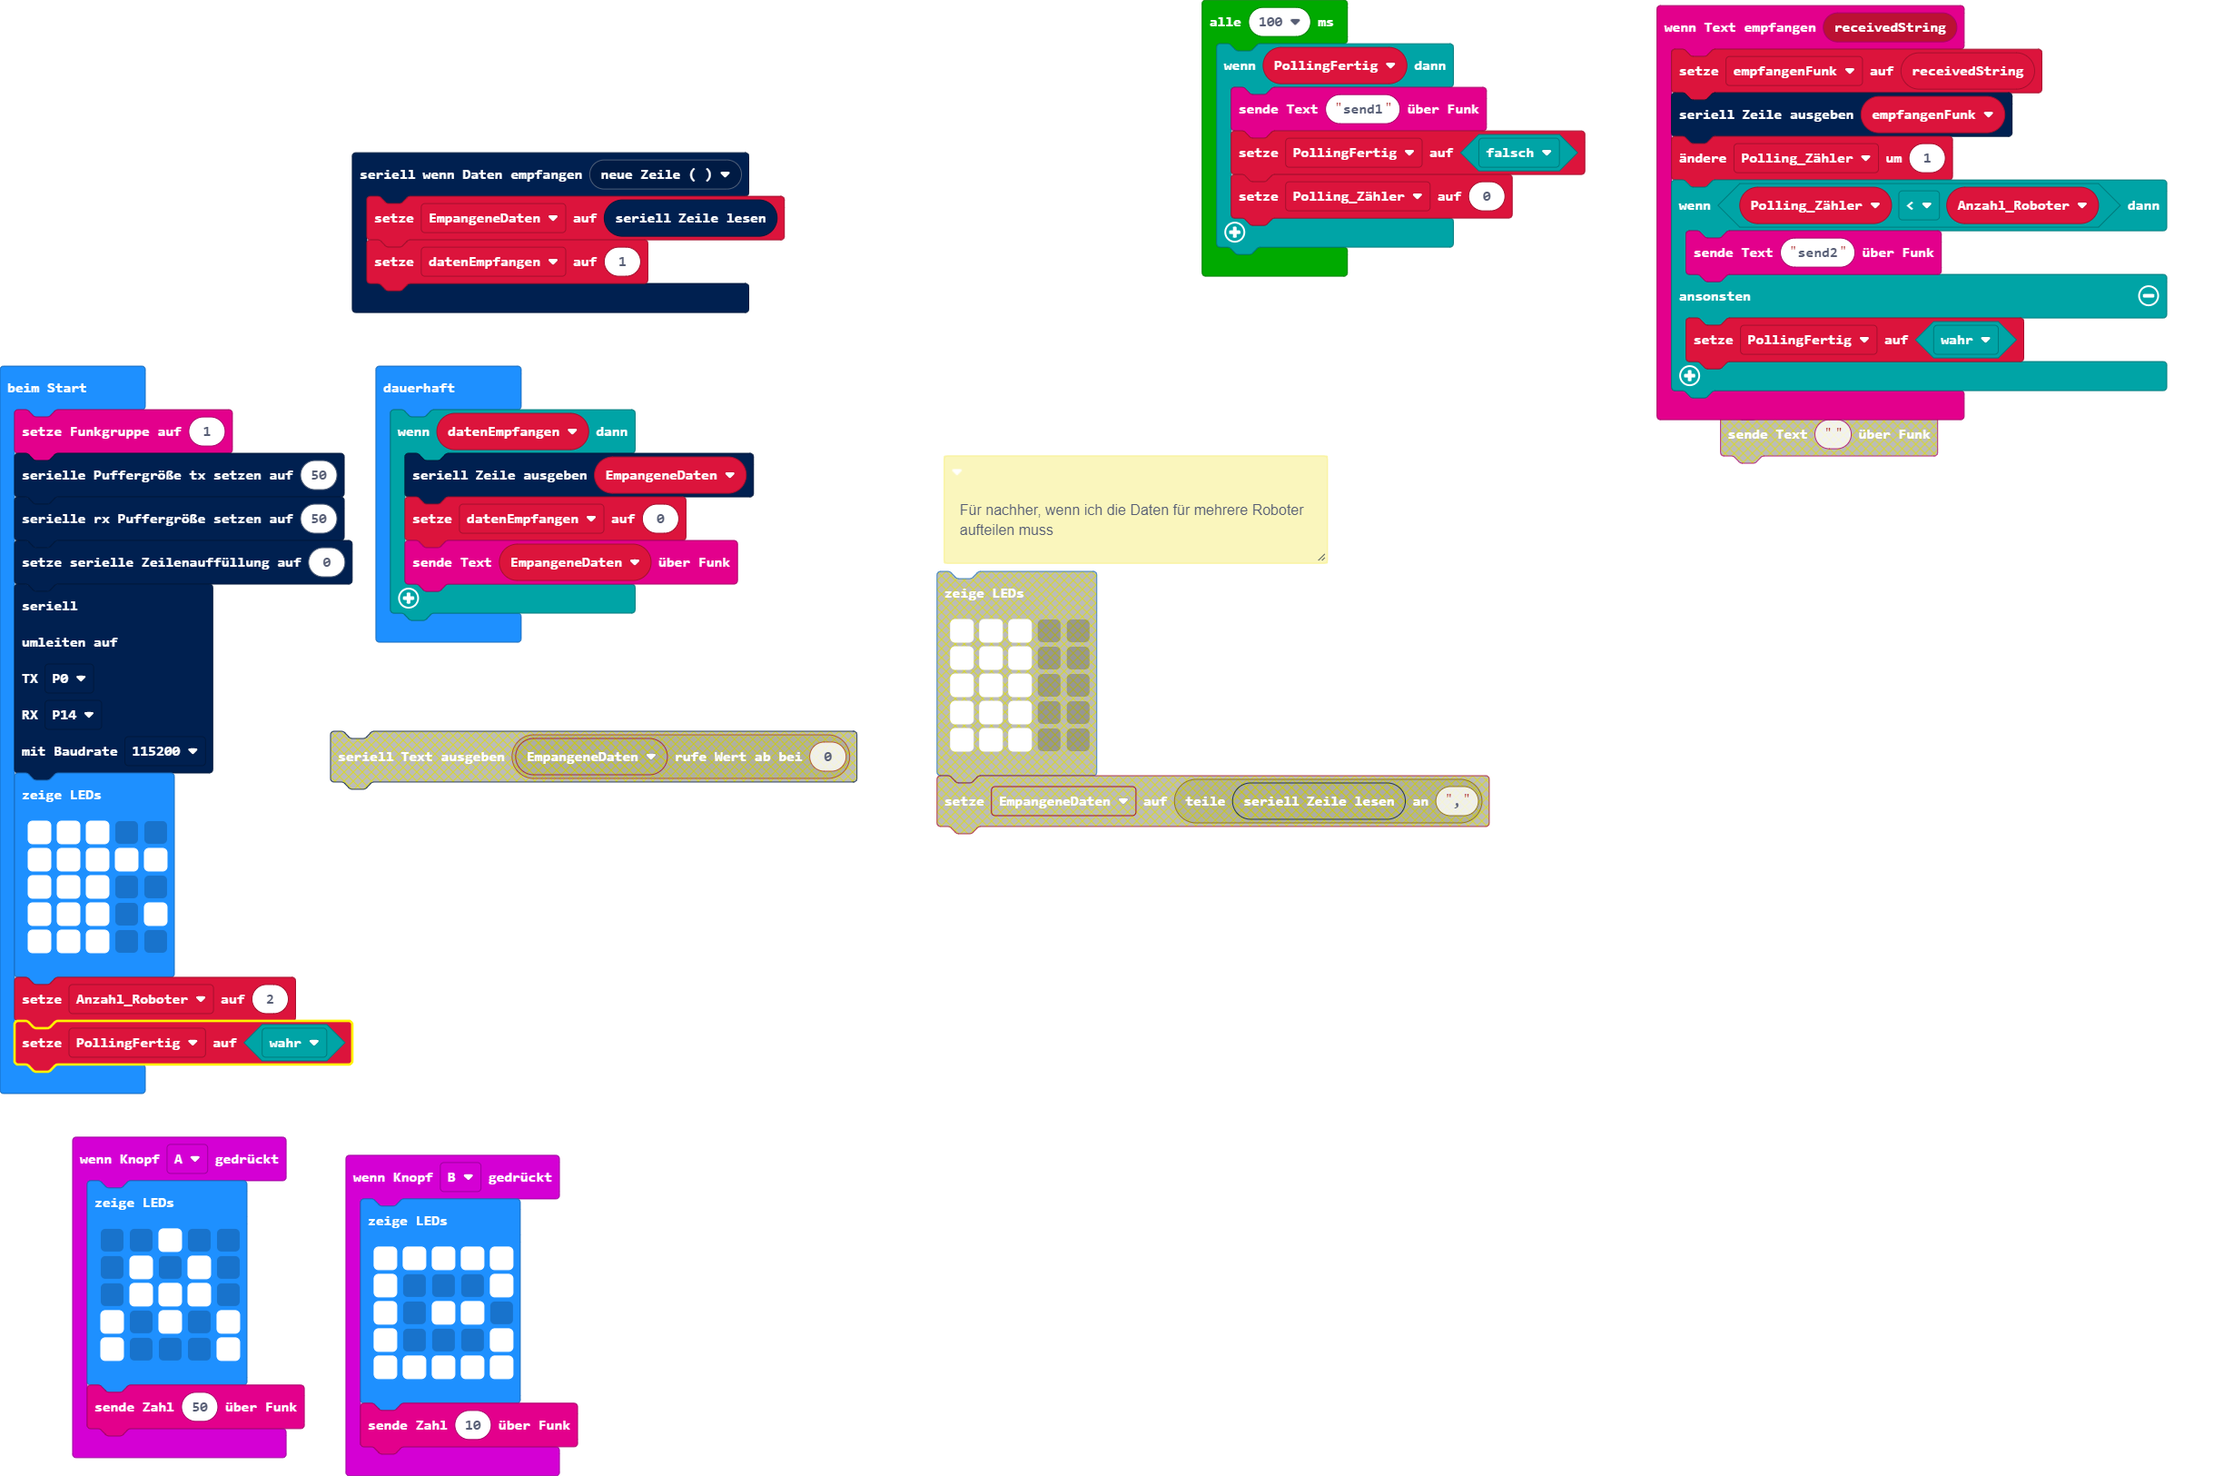
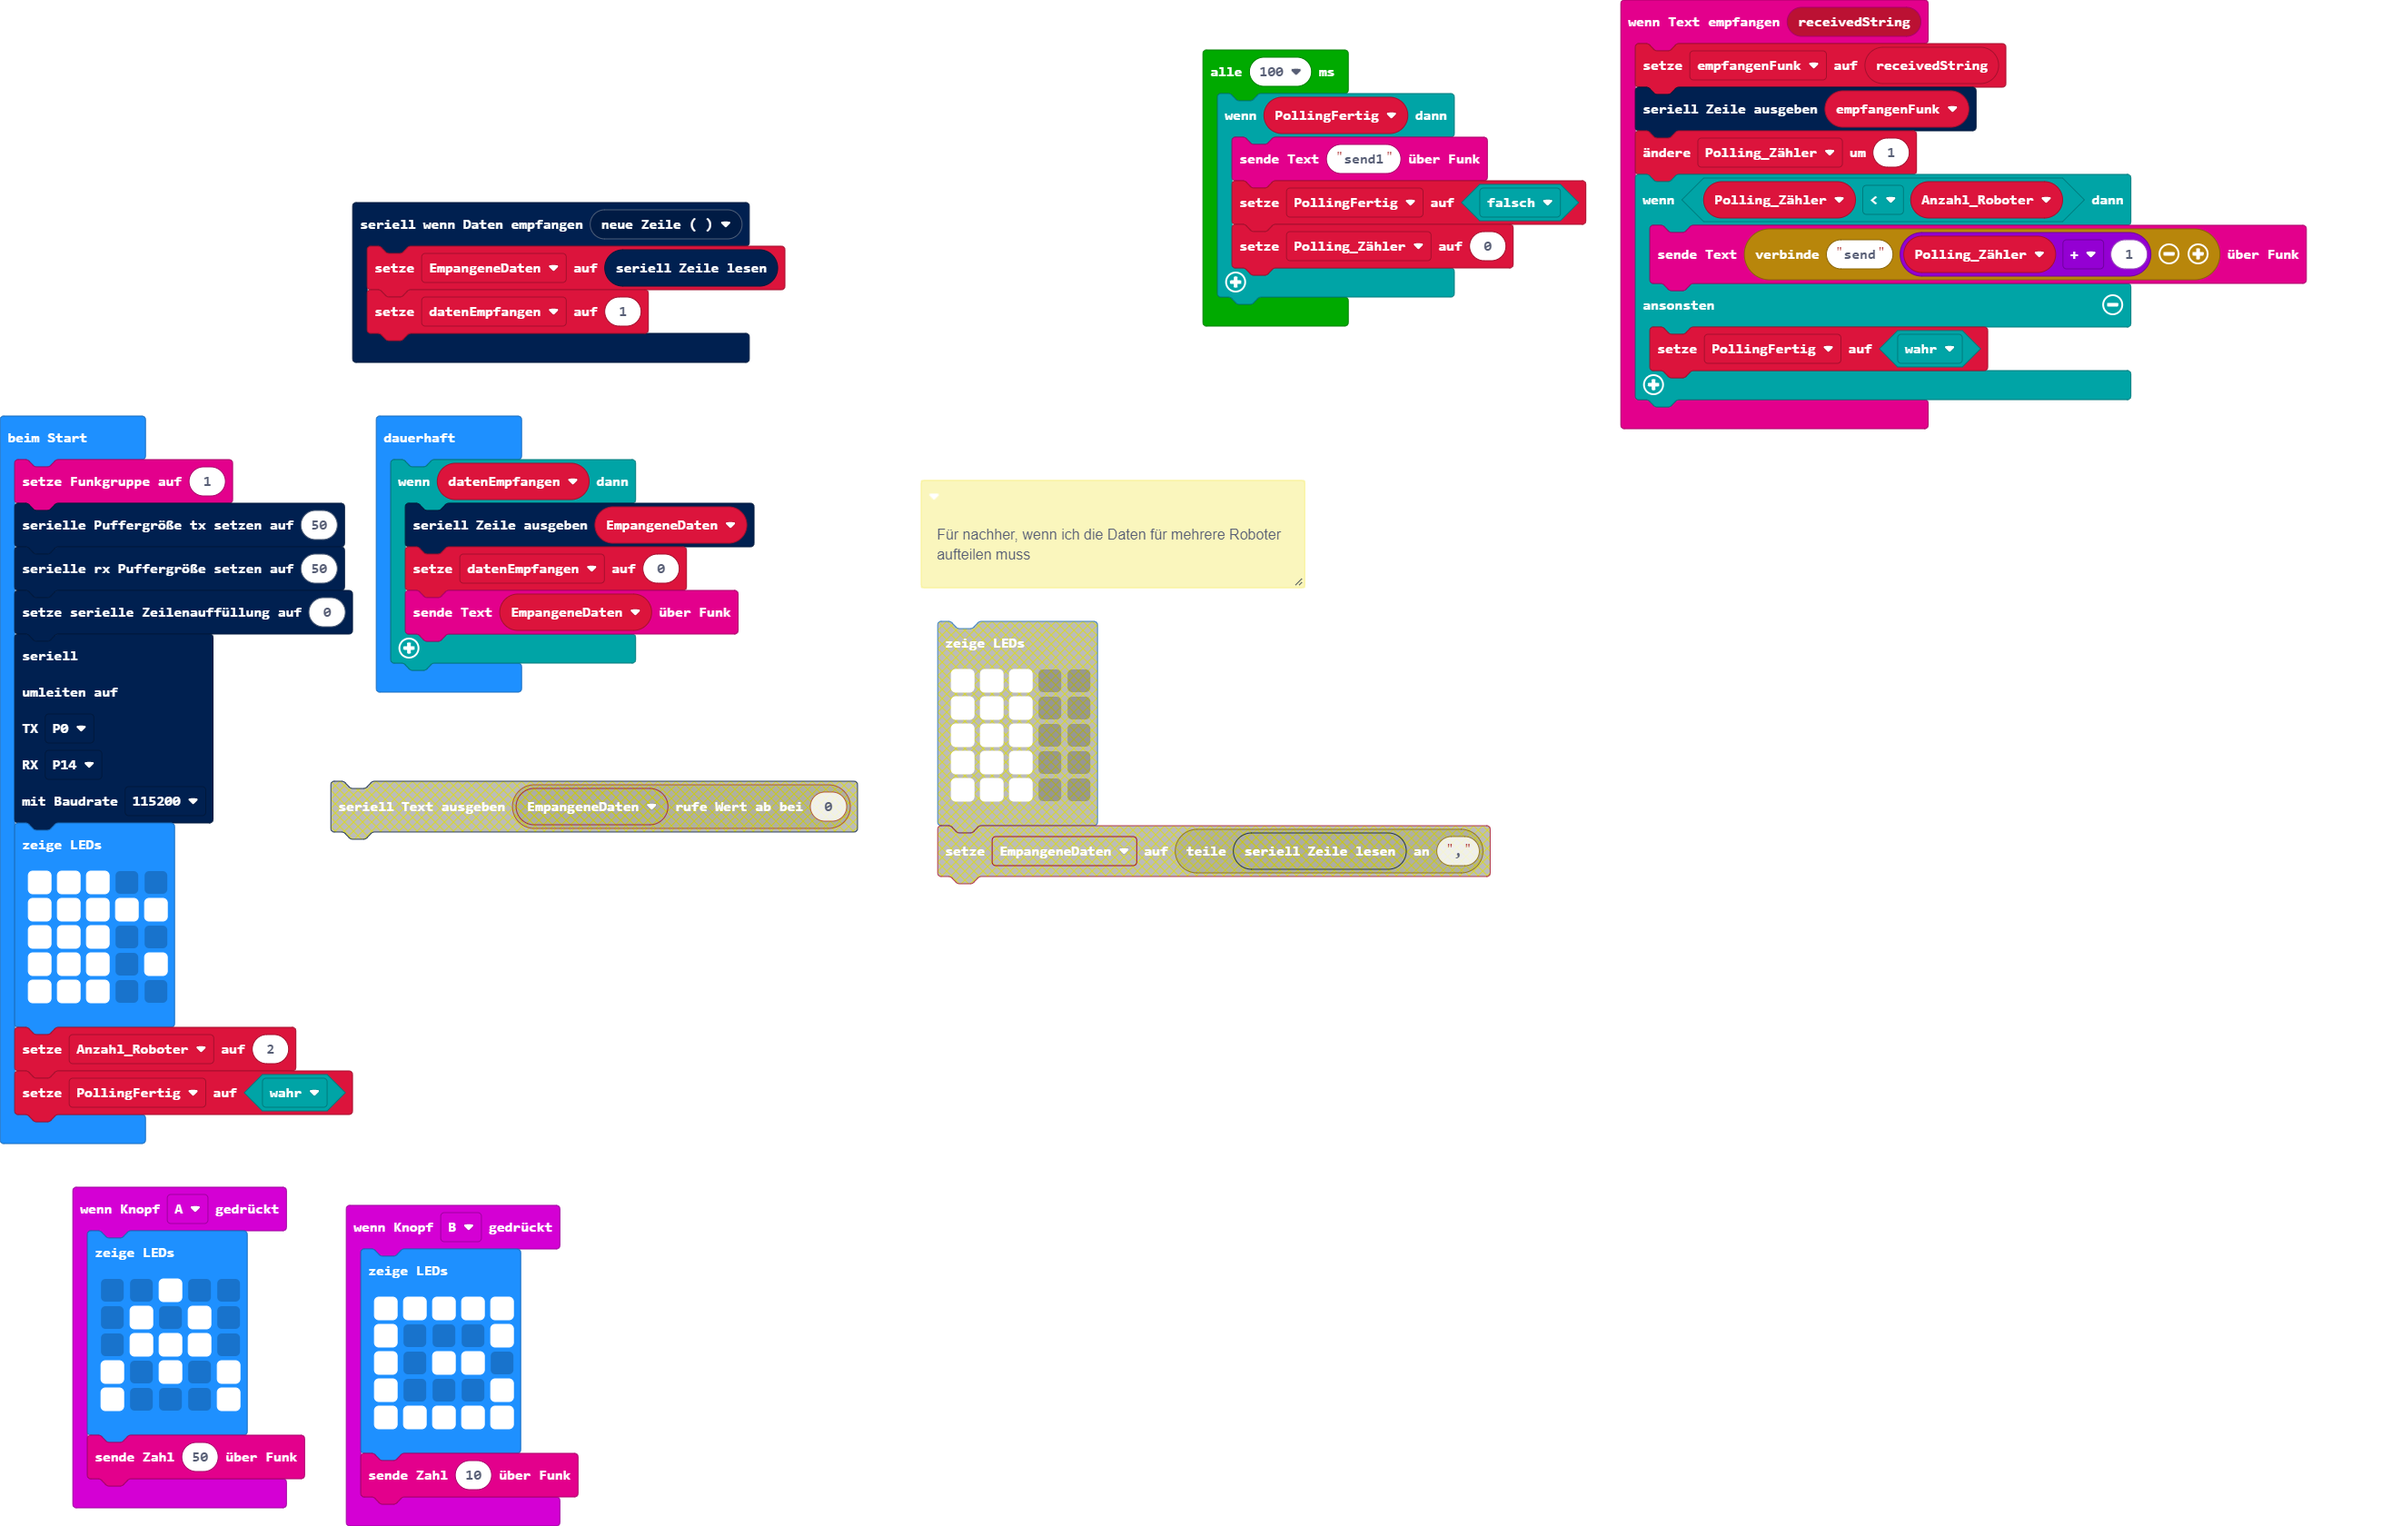
Aktualisiere main.blocks, main.ts

Changed region(s): [[0.0, 0.0923, 0.3741, 1.0], [0.4988, 0.0, 0.9975, 0.3385], [0.1247, 0.3077, 0.6858, 0.5846]]

diff --git a/main.ts b/main.ts
@@ -20,7 +20,7 @@ radio.onReceivedString(function (receivedString) {
     serial.writeLine(empfangenFunk)
     Polling_Zähler += 1
     if (Polling_Zähler < Anzahl_Roboter) {
-        radio.sendString("send2")
+        radio.sendString("send" + (Polling_Zähler + 1))
     } else {
         PollingFertig = true
     }
